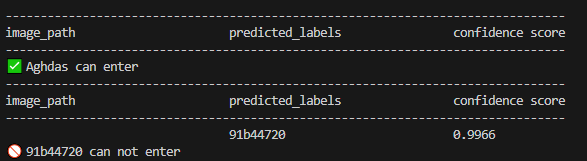
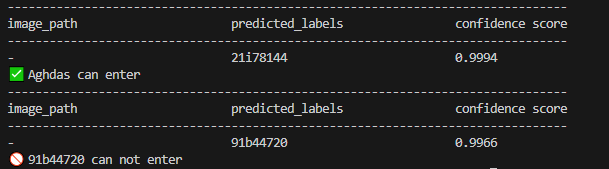
update

diff --git a/dtrb/dtrb.py b/dtrb/dtrb.py
@@ -97,7 +97,7 @@ class DTRB:
 
             preds_prob = F.softmax(preds, dim=2)
             preds_max_prob, _ = preds_prob.max(dim=2)
-            for img_name, pred, pred_max_prob in zip([""], preds_str, preds_max_prob):
+            for img_name, pred, pred_max_prob in zip(["-"], preds_str, preds_max_prob):
                 if 'Attn' in opt.Prediction:
                     pred_EOS = pred.find('[s]')
                     pred = pred[:pred_EOS]  # prune after "end of sentence" token ([s])
